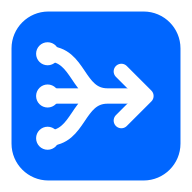
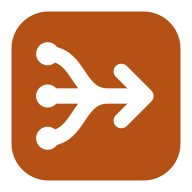
docs: copper theme colour instead of the theme's blue
The docs side takes a colour file (themeColor = "copper"). The landing
page's primary is the theme's $blue with no setting, so head.html inlines
the theme's variables with that one value replaced. Logo and favicons
follow.

Claude-Session: https://claude.ai/code/session_011yFVYCfpHF4XGBH4vRrwnu

diff --git a/docs/assets/docs/scss/custom/colors/_copper.scss b/docs/assets/docs/scss/custom/colors/_copper.scss
@@ -1,0 +1,28 @@
+// natkit's own theme colour (params.docs.themeColor = "copper"), shaped like the theme's colour files
+:root {
+    --copper-900-hsl: 18, 80%, 15%;
+    --copper-800-hsl: 19, 80%, 21%;
+    --copper-700-hsl: 20, 80%, 28%;
+    --copper-600-hsl: 21, 79%, 34%;
+    --copper-500-hsl: 22, 78%, 40%;
+    --copper-400-hsl: 24, 80%, 50%;
+    --copper-300-hsl: 26, 85%, 63%;
+    --copper-200-hsl: 28, 90%, 76%;
+    --copper-100-hsl: 29, 95%, 88%;
+    --copper-50-hsl: 30, 100%, 96%;
+
+    --primary: hsl(var(--copper-500-hsl));
+    --primary-50: hsl(var(--copper-50-hsl));
+    --primary-100: hsl(var(--copper-100-hsl));
+    --primary-200: hsl(var(--copper-200-hsl));
+    --primary-300: hsl(var(--copper-300-hsl));
+    --primary-400: hsl(var(--copper-400-hsl));
+    --primary-800: hsl(var(--copper-800-hsl));
+
+    --primary-hsl: var(--copper-500-hsl);
+    --primary-50-hsl: var(--copper-50-hsl);
+    --primary-100-hsl: var(--copper-100-hsl);
+    --primary-200-hsl: var(--copper-200-hsl);
+    --primary-300-hsl: var(--copper-300-hsl);
+    --primary-800-hsl: var(--copper-800-hsl);
+}

diff --git a/docs/layouts/partials/head.html b/docs/layouts/partials/head.html
@@ -20,8 +20,11 @@
     {{- if hugo.IsProduction}}
         {{- $options := dict "enableSourceMap" false "outputStyle" "compressed" }}
     {{- end }}
-    {{- $style := resources.Get "/scss/style.scss" }}
-    {{- $style = $style | resources.ExecuteAsTemplate "/scss/style.scss" . | css.Sass $options }}
+    {{- /* natkit: the landing page's primary colour is the theme's $blue, with no setting for it. Inline the theme's
+           variables with that one value changed to copper (the docs side is params.docs.themeColor). */}}
+    {{- $vars := (resources.Get "scss/_variables.scss").Content | replaceRE `(\$blue:\s+)#0066ff;` "${1}#b65116;" }}
+    {{- $style := resources.Get "/scss/style.scss" | resources.ExecuteAsTemplate "/scss/style.scss" . }}
+    {{- $style = replace $style.Content `@import "variables";` $vars | resources.FromString "/scss/style.scss" | css.Sass $options }}
     {{- if hugo.IsProduction }}
         {{- $style = $style | minify | fingerprint "sha384" }}
     {{- end -}}
